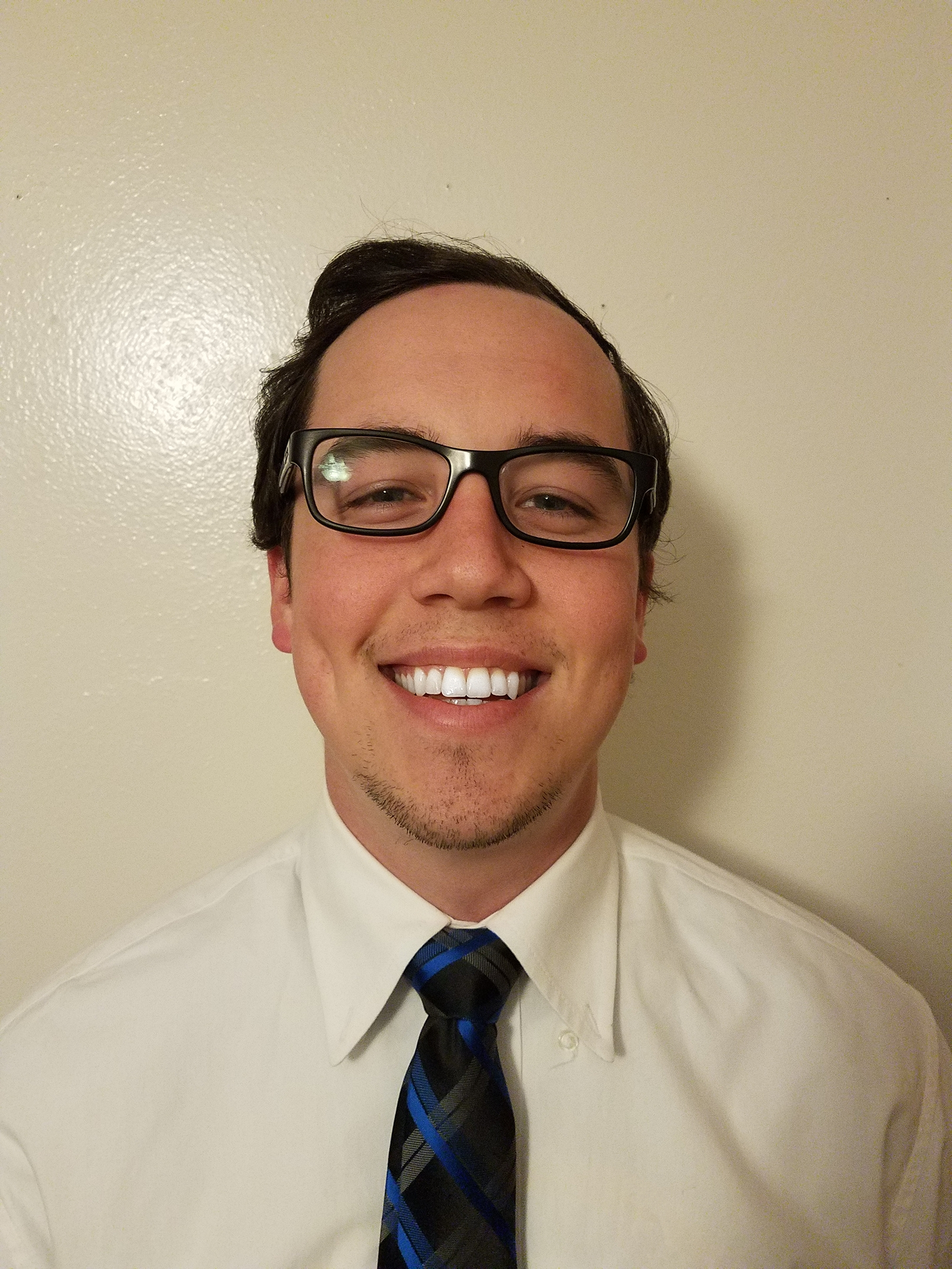
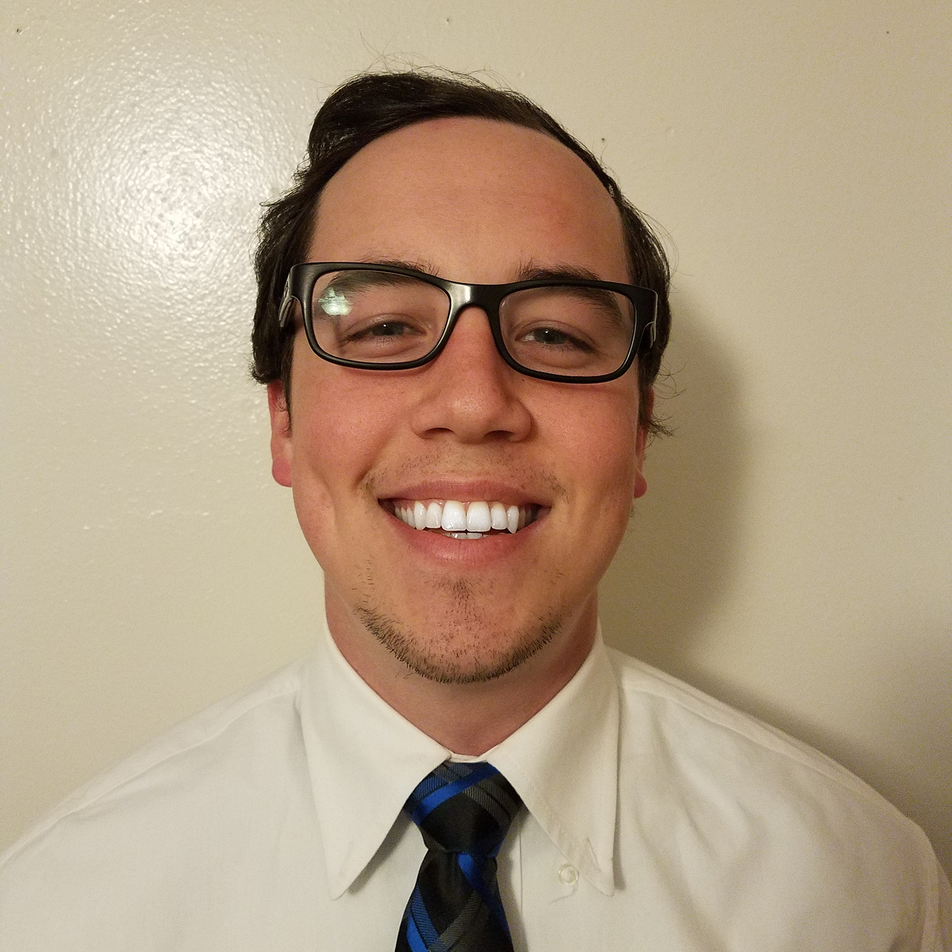
added my info and cropped images

diff --git a/website/current/team.html b/website/current/team.html
@@ -136,44 +136,40 @@
 <main role="main" id="main-content">
 	<div class="container">
 
-<div class="row">
-	<div class="col-xs-12 col-md-12">
-<br><br>
+		<div class="row">
+			<div class="col-xs-12 col-md-12">
+				<br><br>
 
-    <h4>Justin Worley - Cloud Engineer</h4>
-    	<img src="teampics/chicken&justin.jpg" height="300" width="300 class="img-rounded">
-    	<p>Senior in Software Engineering. Team role is focused on Cloud development with frontend and backend integration.</p>
-    		<hr>
-    <h4>Richa Patel - Database Engineer</h4>
-   		<img src="teampics/richa.jpeg" height="300" width="300">
-    	<p>Senior in Computer Engineering and minoring in data science and leadership studies. Team role is focused on database and data analysis. </p>
-            <hr>
+		    <h4>Justin Worley - Cloud Engineer</h4>
+		    	<img src="teampics/chicken&justin.jpg" height="300" width="300" class="img-rounded">
+		    	<p>Senior in Software Engineering. Team role is focused on Cloud development with frontend and backend integration.</p>
+		    		<hr>
 
-    <h4>First Last - Member Title</h4>
-   		<img src="teampics/JohnK.jpg" height="300" width="300">
-    	<p>Senior in Electrical Engineering. Team role is focused on hardwared design and implementation. </p>
-            <hr>
+		    <h4>Richa Patel - Database Engineer</h4>
+		   		<img src="teampics/richa.jpeg" height="300" width="300">
+		    	<p>Senior in Computer Engineering and minoring in data science and leadership studies. Team role is focused on database and data analysis. </p>
+						<hr>
 
-    <h4>First Last - Member Title</h4>
-   		<img src="teampics/isaac.JPG" height="300" width="300">
-        <p>Member Bio</p>
-            <hr>
+		    <h4>John Kivley - Electrical Engineer</h4>
+		   		<img src="teampics/JohnK.jpg" height="300" width="300">
+		    	<p>Senior in Electrical Engineering. Team role is focused on hardwared design and implementation. </p>
+						<hr>
 
-
-    <h4>First Last - Member Title</h4>
-       	<img src="teampics/blank-profile.png" height="300" width="300">
-       	<p>Member Bio</p>
-            <hr>
+		    <h4>Isaac Sanga - </h4>
+		   		<img src="teampics/isaac.JPG" height="300" width="300">
+		      <p>Member Bio</p>
+						<hr>
 
 
-    <h4>First Last - Member Title</h4>
-   		<img src="teampics/blank-profile.png" height="300" width="300">
-   		<p>Member Bio</p>
-            <hr>
+		    <h4>Michael Lauderback - Embedded Systems Engineer</h4>
+		  		<img src="teampics/michaelL.png" height="300" width="300">
+		    	<p>Senior in Software Engineering.  Team role is focused on hardware and software implementation of embedded platform.</p>
+						<hr>
 
-
+			</div>
+		</div>
+		
 	</div>
-
 </main>
 <!-- /main -->
 
